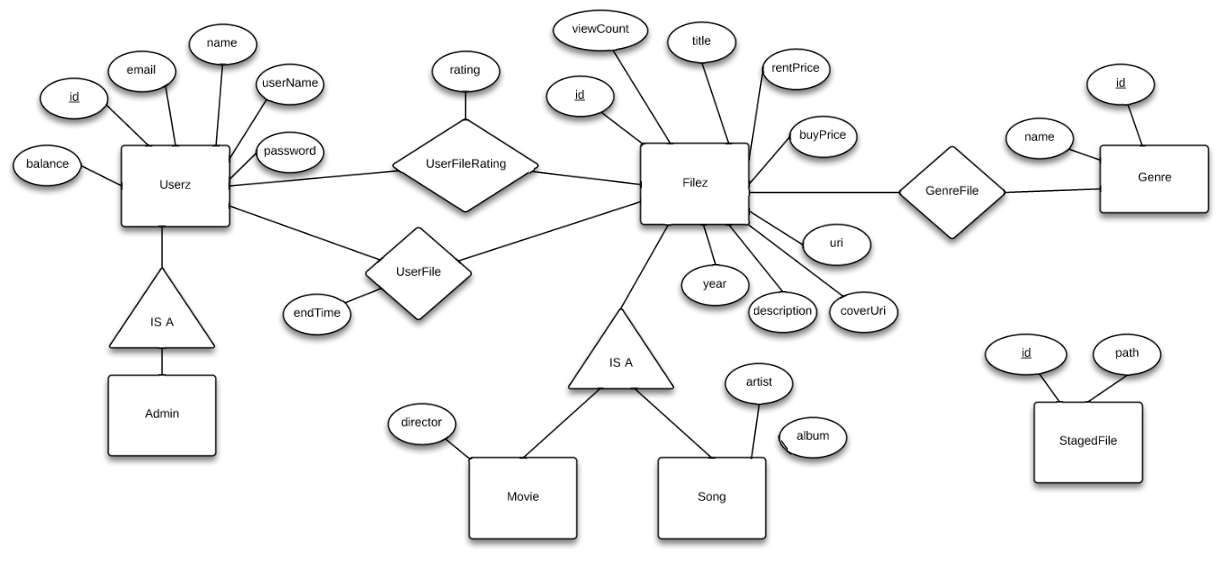
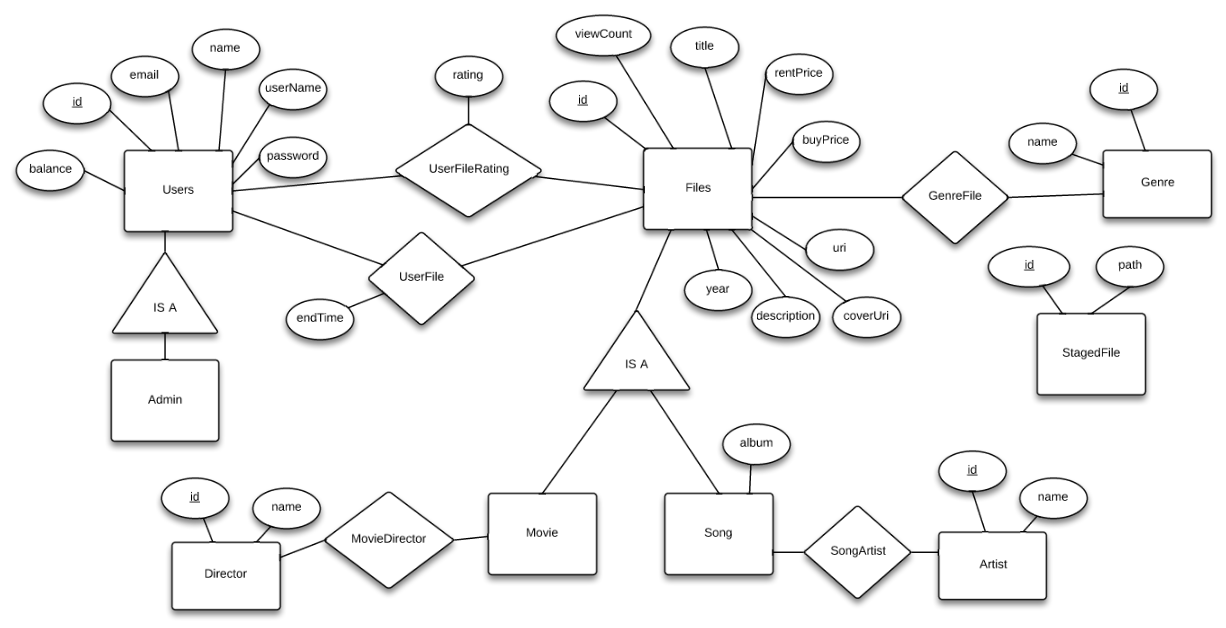
Added a discussion on whether or not to merge artist/director into 'creator'

Changed region(s): [[0.0, 0.0, 0.9927, 0.9825], [0.9306, 0.7145, 0.9616, 0.8336]]

diff --git a/BNDN-Report/p1design/datamodel.tex b/BNDN-Report/p1design/datamodel.tex
@@ -2,17 +2,16 @@
 \subsubsection{Data Model and Back-end Structures}
 \label{sec:datamodel}
 
-With the overall requirements set we began working on the data model of the system with an initial focus on the database entities and relationships. The database entity-relationship model was sketched in LucidChart \footnote{LucidChart is a bla bla} using the notation from Database Management Systems \cite{dbbook}. The complete E-R  model is shown below.
+With the overall requirements set we began working on the data model of the system with an initial focus on the database entities and relationships. The database entity-relationship model was sketched in LucidChart \footnote{Lucidchart is a web-based diagramming software which allows users to collaborate and work together in real time to create flowcharts, organisational charts, website wireframes, UML designs, mind maps, software prototypes, and many other diagram types.} using the notation from Database Management Systems \cite{dbbook}. The complete E-R  model is shown in Figure ~\ref{fig:erd}.
 
 \begin{figure}[h!]
 	\centering
 	\includegraphics[scale=0.5]{./p1design/erdmodel.png}
 	\caption{Our Entity Relationship Model}
+	\label{fig:erd}
 \end{figure}
 
-\subsubsection{Reading the ER-model}
-\label{sec:readingdatamodel}
-Our design follows a naming scheme, where each table is named after the real domain object it represents (singularized), with junction tables named by a concatenation of the tables linked. The naming scheme of junction tables are shown in Figure ~\ref{fig:junctionfigure}.
+Our E-R model follows a naming scheme, where each table is named after the real domain object it represents (singularized), with junction tables named by a concatenation of the tables linked. The naming scheme of junction tables are shown in Figure ~\ref{fig:junctionfigure}.
 
 
 \begin{figure}[h!]
@@ -26,8 +25,6 @@ Our design follows a naming scheme, where each table is named after the real dom
 Where several junction tables exist between the same entities, we append an additional description string to the name (as seen in "UserFile\textit{Rating}").
 Our decision to use the domain objects' names singularized caused problems with the “User” and “File” tables, since these names are reserved keywords in MS SQL. We updated said tables by appending a ‘s’ to the name (making it plural), but we kept the names singularized in the junction tables.
 
-\subsubsection{Normalization}
-\label{sec:normalization}
 Besides creating a database structure capable of holding all the data needed for our use cases, we wanted to avoid redundant data. Our choice to avoid redundant data stems from the wish to eliminate anomalies within the database of which redundant data is a key cause. Anomalies are known to weaken the integrity of the database \cite{dbbook} due to irregular or inconsistent data, and we believe integrity is a key characteristic of a database dealing with users, their money, and their property. We enforced this constraint by applying a database normalization (third normal form) to our design, which is known to be free of update, insertion, and deletion anomalies.
 
 \subsubsection{Designing for Extendability}
@@ -42,29 +39,27 @@ The naïve solution would be to create a new table for each media type e.g.
 \textbf{Song (id, title, artist, album, coverURI, rentPrice, …)} or
 \textbf{Movie (id, title, director, coverURI, rentPrice, …)}
 This will however create a lot of duplicate columns in different tables. If we wanted to add new information to our media types later, e.g. a “viewCount” (which did actually happen) this would need to be added to every media table.
-The realization that several columns of information is shared across the media suggest for an inheritance based approach, where the shared columns are placed in a “super table”, while every media table will take part in an IS-A relationship with said “super table”.
+The realization that several columns of information is shared across the media suggest for an inheritance based approach, where the shared columns are placed in a “super table”, while every media table will take part in an IS-A relationship with said “super table”. This is the design that can be seen in Figure ~\ref{fig:erd}.
 
-This design can be seen in our final entity relationship model.
+With our minds set on centralizing the common media attributes in the Files super table, we noted that both a movie director and a song artist could be gathered under a common label "Creator". The Files table would then be connected to a "person" table, which would store both song artists and movie directors.
+We discussed this design and noted that it could not maintain the current constraint that only songs are linked to artists and only movies to directors. In addition we would not be able to extend the information on artists without extending it for directors too. This led to the decision to keep them seperate, although they are conceptually very close.
 
-\subsubsection{Improvements}
-\label{sec:improvementsdatamodel}
-Looking back at our database design we realized that a few improvements could be made. We have sketched these below:
-\begin{itemize}
-\item Currently our movie table has a director property while our song table has an artist property. These could be moved into the File(z) table with the name “creator”.
-\item Our current design does not support several directors/artists. This could have been designed like we designed the genres.
-\end{itemize}
+Later in the project we became aware that the above dilemma also applies to the concept of genres with the implication that a song could be linked to the genre "Horror", which does not make sense (Justin Bieber songs excluded). As such the design of the genres-relation does not match our established design philosophies and we believe that this could (and should) be improved upon in any later revision of the project.
 
 \subsubsection{Accessing the Database}
 \label{sec:databaseaccess}
 After having designed the database structure we had to decide how to access and utilize the database in the best suited way for our webservice. We quickly settled for a C\#/WCF-based web service, since every group member had about the same experience in that platform from other ITU courses.
 With access to the .NET framework, we considered to make use of the Entity Framework for our database interactions and general object-relational mapping. However several group members had been experiencing some inconvenient performance issues in previous projects. We do believe performance is an important aspect of our service and research has shown that users of the internet have become very impatient with regards to response times \cite{webusersflee}. We also deemed our queries and database interaction to be fairly simple, thus having no real need for most of the functionality in the Entity Framework. After a discussion it became clear that the only real benefit of using the framework was the possibility of faster prototyping. With our emphasis on a solid performance we choose to spend a little more time developing our own database access layer in order to maintain a more direct control over the performance of our solution.
 
-\subsubsection{Other Potential Sections}
-\textbf{Nævn lazy loading?}
-Vi bruger det sådan set ikke til noget meget smart
 
-\textbf{Mulige arbejdsgange/forespørgsler understøttet}
-Voldsomt ligegyldigt? Alle use cases er jo understøttet. Kan ikke se noget at skrive her.
+\subsubsection{From Entities to Classes}
+Nævn ét eksempel på en entity -> objekt mapning. Husk - kun backend.
 
-\textbf{Hvordan ER-diagram mappet til C\# objekterne, ala User -> userobjekt..}
-Rimelig selvforklarende mapning vi bruger. De fleste entities hedder det samme.
+
+\subsubsection{Lazy loading}
+Nævn det.
+Giv et eksempel.
+
+\subsubsection{Supported workflows}
+Nævn at alt er understøttet.
+Giv ét eksempel på en use cases/handling med henblik på interaktion og hvor simpel API'en (backend API) er.
